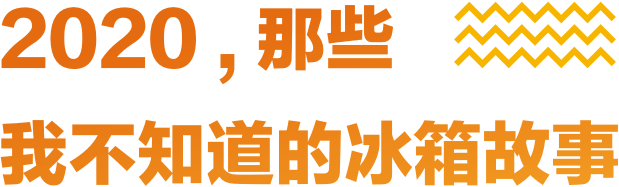
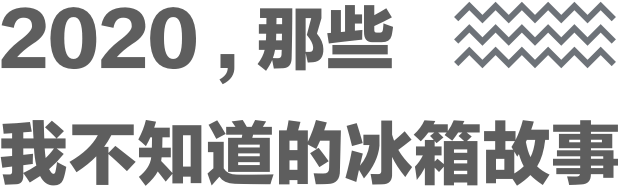
colmo改动

diff --git a/src/pages/index/App.vue b/src/pages/index/App.vue
@@ -3,11 +3,11 @@
 		<music ref="music" :play="play" @clicked="clicked"></music>
 		<div v-if="showMain" class="status01">
 			<div class="page chakan" :style="entryBgStyle" style="top:0;">
-				<img id="cloud1" class="cloud" src="../../assets/cloud01.png" />
+				<img v-if="brand!=1" id="cloud1" class="cloud" src="../../assets/cloud01.png" />
 				<img class="clogo" :src="skin.logo" />
 				<img class="botImg" :src="skin.mainImg" />
-				<img class="cloud" src="../../assets/cloud01.png" />
-				<img id="cloud3" class="cloud" src="../../assets/cloud3.png" />
+				<img v-if="brand!=1" class="cloud" src="../../assets/cloud01.png" />
+				<img v-if="brand!=1" id="cloud3" class="cloud" src="../../assets/cloud3.png" />
 				<div class="imgText">
 					<div class="title" :style="titleStyle">{{skin.ppText}}智能冰箱2020年度使用报告</div>
 					<img class="together" :src="skin.mainT" />
@@ -35,7 +35,7 @@
 					<div class="loginText">
 						<p>请扫描上方二维码下载美的美居APP</p>
 						<p>或直接打开已安装的美的美居APP</p>
-						<p>获取你的冰箱专属年度报告</p>
+						<p>进入冰箱插件内获取年度报告</p>
 					</div>
 				</div>
 				<div class="botBtnBox">
@@ -76,7 +76,7 @@
 									<p class="pBegin">我们第一次相遇</p>
 									<p>时光定格在了那个{{dataObj.season||'冬'}}天</p>
 									<p>而我的世界从此有了你</p>
-									<p class="pBegin">转眼间我们一起走过了 <span class="strong">{{dataObj.totalDay||498}}</span> 天</p>
+									<p class="pBegin">转眼间我们一起走过了 <span class="strong">{{dataObj.totalDay}}</span> 天</p>
 									<p>以后的漫长岁月</p>
 									<p>期待我们更多的小确幸</p>
 								</div>
@@ -119,9 +119,9 @@
 
 								<div class="thisYearBox">
 									<img src="../../assets/inthisyear.png" />
-									<p class="pBegin">你打开冰箱门 <span class="strong">{{dataObj.yearOpenNum||1085}}</span> 次</p>
+									<p class="pBegin">你打开冰箱门 <span class="strong">{{dataObj.yearOpenNum}}</span> 次</p>
 									<p>超越全国 <span class="strong">{{dataObj.doorOpenTimeoutPercent}}%</span> 的用户</p>
-									<p class="pBegin">累计开门时长 <span class="strong">{{dataObj.yearOpenDuration||498}}</span> 小时</p>
+									<p class="pBegin">累计开门时长 <span class="strong">{{dataObj.yearOpenDuration}}</span> 小时</p>
 									<p>超越全国 <span class="strong">{{dataObj.yearOpenDurationPercent}}%</span> 的用户</p>
 									<p class="pBegin" v-html="dataObj.yearOpenNumMsg"></p>
 								</div>
@@ -134,13 +134,19 @@
 
 								<div class="thisYearBox">
 									<img src="../../assets/inthisyear.png" />
-									<p class="pBegin">冰箱节能指数 <span class="strong">{{dataObj.energyScore||88}}</span> 分</p>
+									<p class="pBegin">冰箱节能指数 <span class="strong">{{dataObj.energyScore}}</span> 分</p>
 									<p>超越全国 <span class="strong">{{dataObj.energyScorePercent}}%</span> 的用户</p>
-									<p class="pBegin">开门超时报警发生了 <span class="strong">{{dataObj.doorOpenTimeout||38}}</span> 次</p>
-									<p>落后于全国 <span class="strong">{{dataObj.doorOpenTimeoutPercent}}%</span> 的用户</p>
-									<p class="pBegin">乖~</p>
-									<p>用完冰箱之后要记得及时关门呀</p>
-									<p>节约能源，爱护地球，我们都是地球卫士</p>
+									<p class="pBegin">开门超时报警发生了 <span class="strong">{{dataObj.doorOpenTimeout}}</span> 次</p>
+									<!--<p>落后于全国 <span class="strong">{{dataObj.doorOpenTimeoutPercent}}%</span> 的用户</p>-->
+									<div v-if="dataObj.doorOpenTimeout>=20">
+										<p class="pBegin">乖~</p>
+										<p>用完冰箱之后要记得及时关门呀</p>
+										<p>节约能源，爱护地球，我们都是地球卫士！</p>
+									</div>
+									<div v-else>
+										<p class="pBegin">随手关门一小步，节约能源一大步</p>
+										<p>地球卫士就是你！</p>
+									</div>
 								</div>
 							</div>
 							<!--特别的日子-->
@@ -152,7 +158,7 @@
 
 									<div class="thisYearBox">
 										<img src="../../assets/specailDay.png" />
-										<p class="pBegin">2020年的 <span class="strong">{{dataObj.specialDay||''}}</span></p>
+										<p class="pBegin">2020年的 <span class="strong">{{dataObj.specialDay}}</span></p>
 										<p>你打开过 <span class="strong">{{dataObj.specialDayNum}}</span> 次冰箱</p>
 										<p>比平时多了许多</p>
 										<p>还记得那一天的故事吗？</p>
@@ -167,7 +173,7 @@
 
 									<div class="thisYearBox">
 										<img src="../../assets/specailDay.png" />
-										<p class="pBegin"><span class="strong">{{dataObj.specialDay||''}}</span> 大概是很特别的一天</p>
+										<p class="pBegin"><span class="strong">{{dataObj.specialDay}}</span> 大概是很特别的一天</p>
 										<p>你打开过 <span class="strong">{{dataObj.maxOpenNum}}</span> 次冰箱</p>
 										<p>是开门 <span class="strong">最多</span> 的一天</p>
 										<p>还记得那一天的故事吗？</p>
@@ -188,7 +194,7 @@
 
 									<div class="thisYearBox">
 										<img src="../../assets/morning.png" />
-										<p class="pBegin">{{dataObj.earliestDayDate}} <span class="strong">{{dataObj.earliestDayTime||''}}</span></p>
+										<p class="pBegin">{{dataObj.earliestDayDate}} <span class="strong">{{dataObj.earliestDayTime}}</span></p>
 										<p>这是你今年 <span class="strong">最早</span> 打开冰箱的时刻</p>
 										<p>太阳才渐渐升起</p>
 										<p>有人却已默默的忙碌起家人的早餐</p>
@@ -206,7 +212,7 @@
 
 									<div class="thisYearBox">
 										<img src="../../assets/morning.png" />
-										<p class="pBegin">{{dataObj.earliestDayDate}} <span class="strong">{{dataObj.earliestDayTime||''}}</span></p>
+										<p class="pBegin">{{dataObj.earliestDayDate}} <span class="strong">{{dataObj.earliestDayTime}}</span></p>
 										<p>这是你今年最早打开冰箱的时刻</p>
 										<p>冰箱里是不是总有美味等着你呢？</p>
 										<p class="pBegin">这一年9点之前冰箱共开门 <span class="strong">{{dataObj.nineBeforeNum}}</span> 次</p>
@@ -336,7 +342,7 @@
 								<img @click="noticeClick" class="notice" src="../../assets/notice.png" />
 								<div v-show="showNotice" class="noticeBox">
 									<p id="noticTitle">用户须知</p>
-									<p>1、年度报告所有内容均基于用户的冰箱日常使用数据分析处理，不作为事实依据，请理性看待。</p>									
+									<p>1、年度报告所有内容均基于用户的冰箱日常使用数据分析处理，不作为事实依据，请理性看待。</p>
 									<p v-if="status==3">2、年度报告为个人数据，“分享我的报告”即表示同意别人查看你的个人数据。“分享链接”则表示仅分享本年度报告入口，不涉及任何个人隐私数据。</p>
 									<p v-else>2、年度报告为个人数据，“查看我的报告”将会跳转到报告入口。“分享链接”则表示仅分享本年度报告入口，不涉及任何个人隐私数据。</p>
 									<div id="noticeBtn" class="btn" @click="noticeClick">我知道了</div>
@@ -381,7 +387,7 @@
 										<div class="centerLine" style="height: 100%;width: 1px;"></div>
 										<div v-if="status==3" id="copyBtn2" class="botbtn" @click="copyUrl2">分享我的报告</div>
 										<div v-else class="botbtn" @click="toSeeMe2">查看我的报告</div>
-										
+
 									</div>
 								</div>
 							</div>
@@ -493,7 +499,7 @@
 		}
 	}
 	var meiju = isMeiju();
-//	meiju=true;
+	//	meiju=true;
 	var swiper = undefined;
 	export default {
 		name: 'App',
@@ -515,7 +521,7 @@
 			showHe: false,
 			showNotice: false,
 			noData: false,
-			showMain:true
+			showMain: true
 		}),
 		computed: {
 			nightBgStyle() {
@@ -533,7 +539,7 @@
 				}
 			},
 			status() {
-				//				return 3
+				//								return 3
 				if(this.meiju) {
 					if(this.fridgeId) {
 						//美居插件里
@@ -557,7 +563,8 @@
 				if(this.brand == 1) {
 					obj.logo = coLogo;
 					obj.loadingImg = coLoading; //加载动画圈
-					obj.ppText = '我的'; //品牌名
+//					obj.ppText = '我的'; //品牌名
+					obj.ppText = 'COLMO'; //品牌名
 					obj.mainT = coMainT; //together图
 					obj.mainImg = coMainImg; //主页原件
 					obj.entryBg = coentryBg; //主页背景
@@ -582,7 +589,7 @@
 				let background = undefined;
 				let color = undefined;
 				if(this.brand == 1) {
-					background = '#B8B8B8';
+					background = '#6D7278';
 					color = '#FFFFFF';
 				} else if(this.brand == 2) {
 					background = '#968EFD';
@@ -655,6 +662,7 @@
 					fridgeId: encode('145135535560333')
 				}).then(res => {
 					if(res.data && res.data.code == 0) {
+						console.log(res.data)
 						if(res.data.data.length != 0) {
 							this.dataObj = res.data.data
 						} else {
@@ -684,7 +692,7 @@
 				swiper.slideNext();
 			},
 			initCloud() {
-				var cld = document.getElementsByClassName('cloud');				
+				var cld = document.getElementsByClassName('cloud');
 				var tWidth = document.body.clientWidth;
 				var ar = [-1, 1];
 				cloudTimer = setInterval(() => {
@@ -709,8 +717,8 @@
 				let timer = setInterval(() => {
 					var ran = Math.floor(Math.random() * 15);
 					this.rate += ran;
-					if(self.noData){
-						self.showMain=false;
+					if(self.noData) {
+						self.showMain = false;
 						clearInterval(timer);
 						return;
 					}
@@ -977,7 +985,8 @@
 		line-height: 9vw;
 		border-radius: 30px;
 		text-align: center;
-		font-size: 5vw;
+		/*font-size: 5vw;*/
+		font-size: 4.5vw;
 	}
 	
 	.botBtnBox {

diff --git a/src/api/request.js b/src/api/request.js
@@ -3,8 +3,8 @@
 //const md5 = require('md5-node');
 
 import axios from 'axios'
-const URL = 'https://fridge-api2.mideav.com'; //临时
-//const URL ='https://fridge-api.mideav.com'; //正式
+//const URL = 'https://fridge-api2.mideav.com'; //临时
+const URL ='https://fridge-api.mideav.com'; //正式
 const service = axios.create({
 	baseURL: URL, // url = base url + request url
 	// withCredentials: true, // send cookies when cross-domain requests
